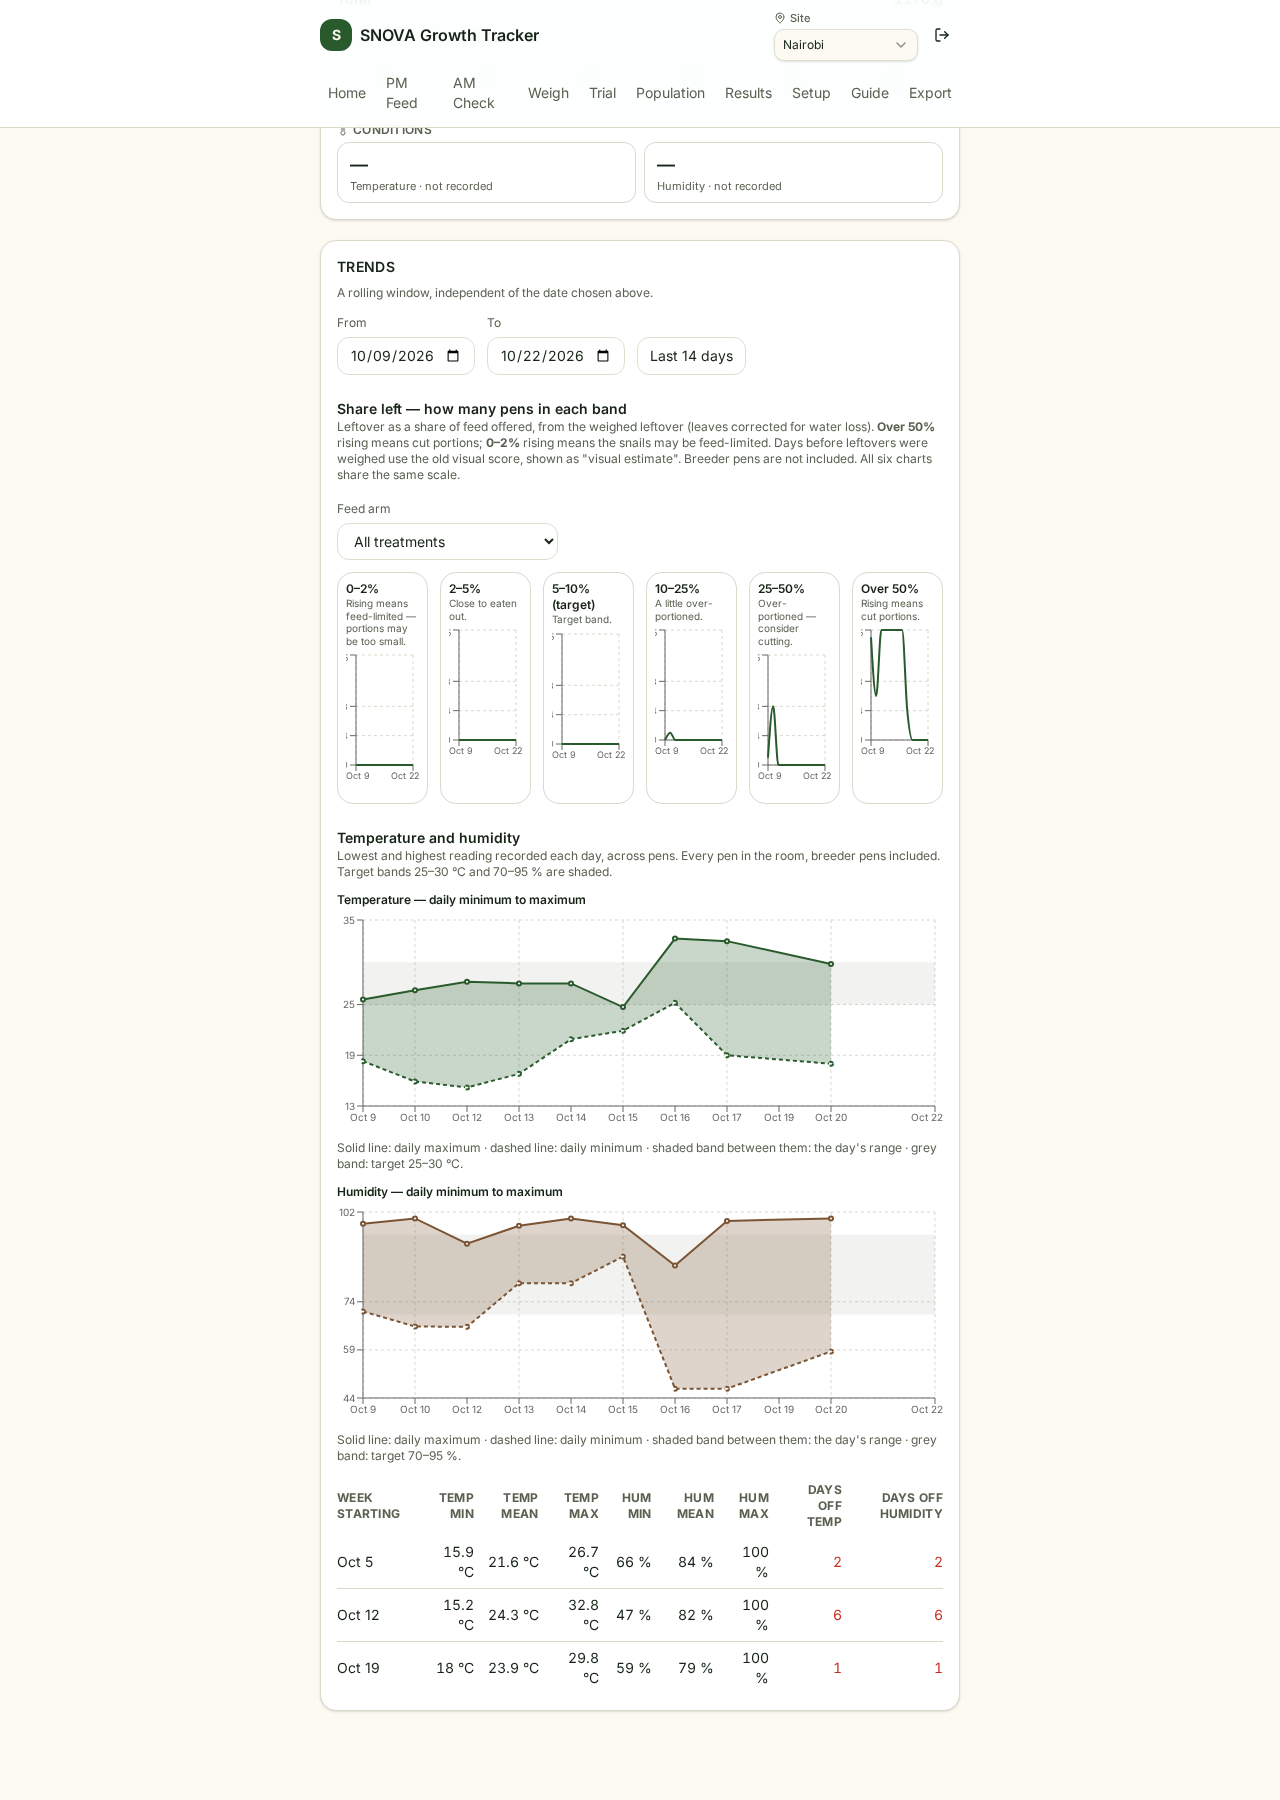
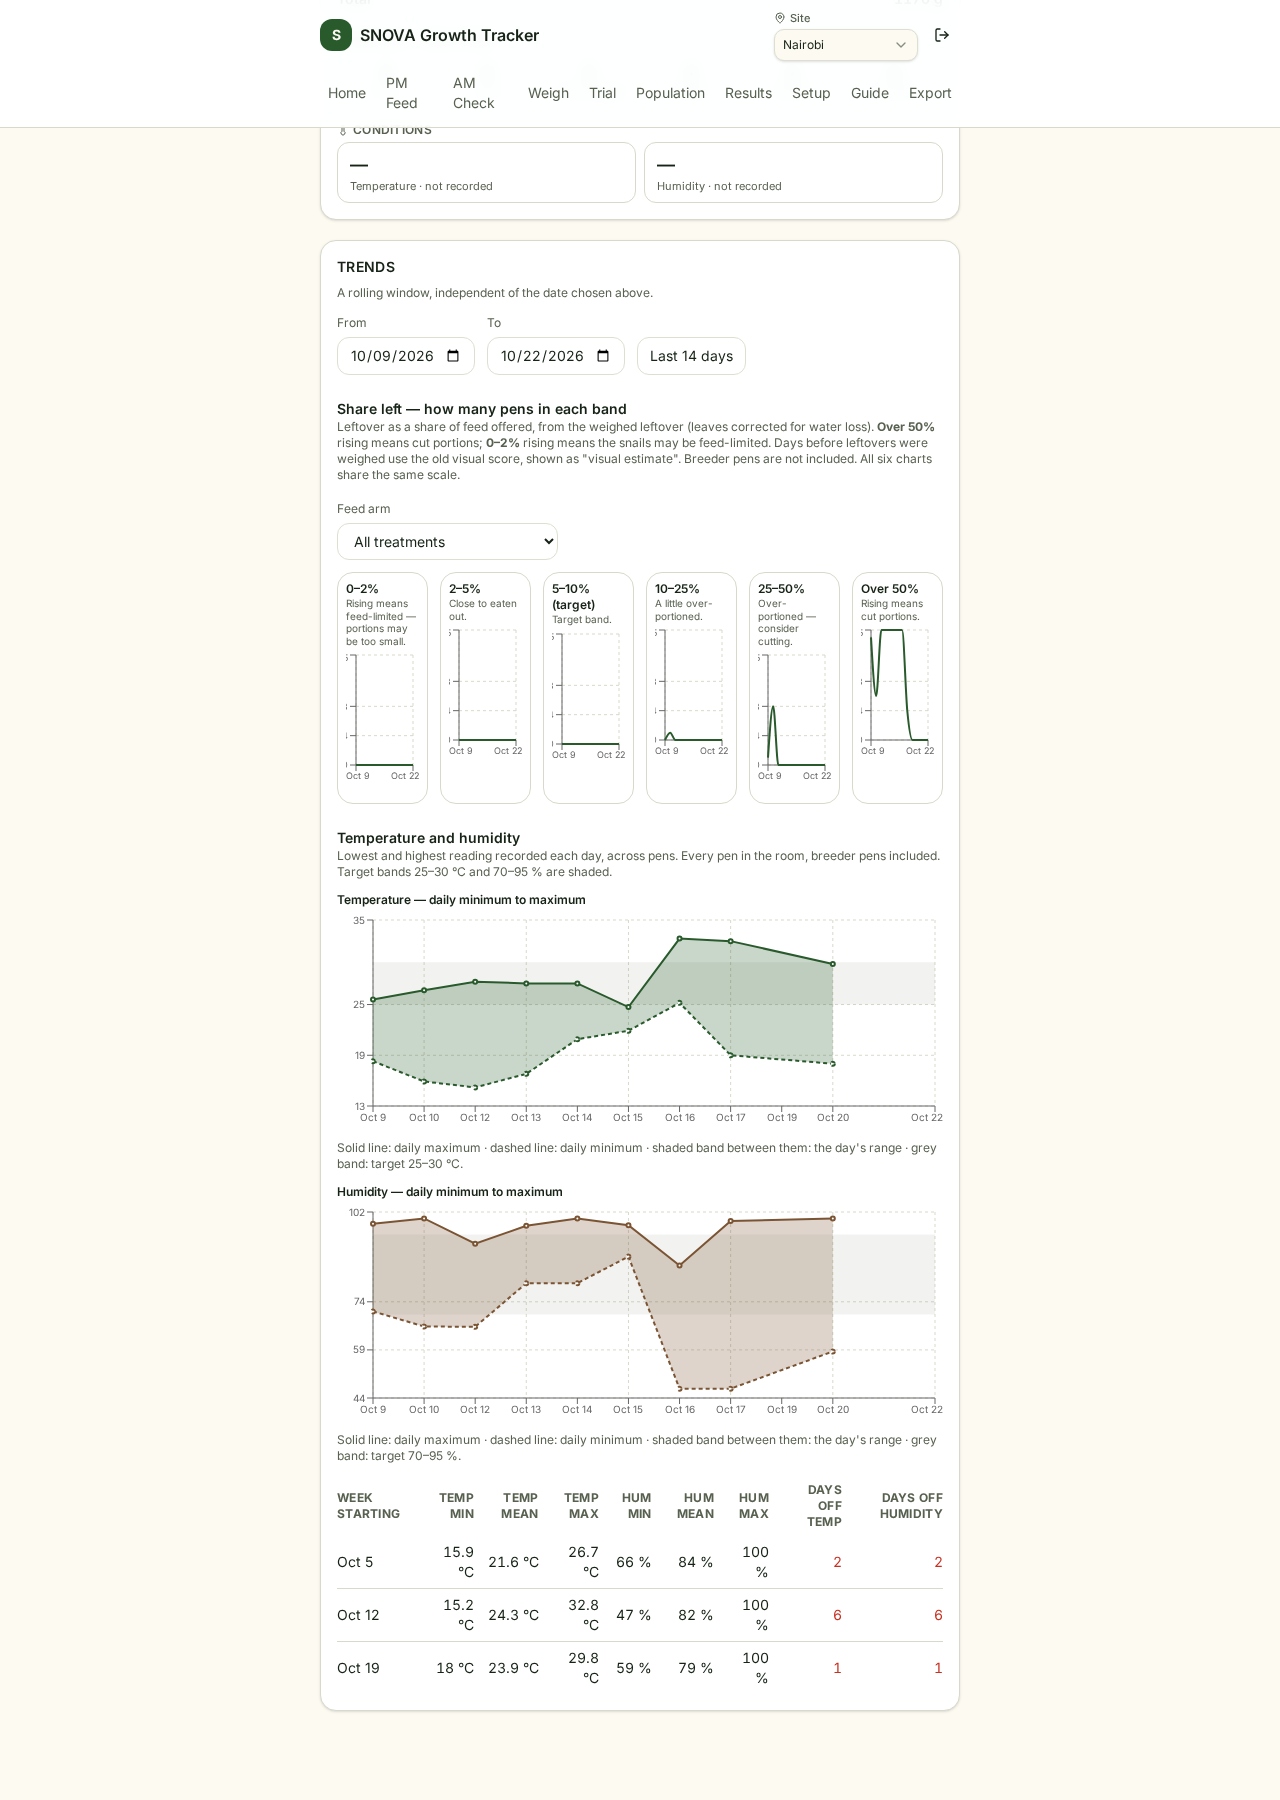
Changes

diff --git a/src/components/DashboardTrends.tsx b/src/components/DashboardTrends.tsx
@@ -344,10 +344,10 @@ export default function DashboardTrends({ trialId, treatmentByPen, treatments, b
                 <h4 className="text-xs font-semibold">{c.title} — daily minimum to maximum</h4>
                 <div className="h-56">
                   <ResponsiveContainer width="100%" height="100%">
-                    <ComposedChart data={envDaily} margin={{ top: 8, right: 8, bottom: 0, left: -18 }}>
+                    <ComposedChart data={envDaily} margin={{ top: 8, right: 8, bottom: 0, left: 0 }}>
                       <CartesianGrid strokeDasharray="3 3" stroke="var(--color-border)" />
                       <XAxis dataKey="date" tickFormatter={shortDate} tick={{ fontSize: 10 }} minTickGap={16} />
-                      <YAxis domain={[(m: number) => Math.floor(m - 2), (m: number) => Math.ceil(m + 2)]} allowDecimals={false} tick={{ fontSize: 10 }} width={44} />
+                      <YAxis domain={[(m: number) => Math.floor(m - 2), (m: number) => Math.ceil(m + 2)]} allowDecimals={false} tickFormatter={(v: number) => String(Math.round(v))} tick={{ fontSize: 10 }} width={36} />
                       <ReferenceArea y1={c.lo} y2={c.hi} fill="var(--color-muted-foreground)" fillOpacity={0.08} ifOverflow="extendDomain" />
                       <Tooltip
                         labelFormatter={(v) => shortDate(String(v))}
